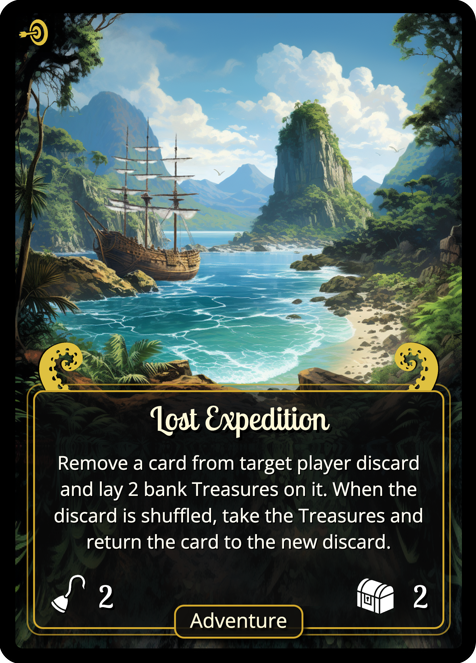
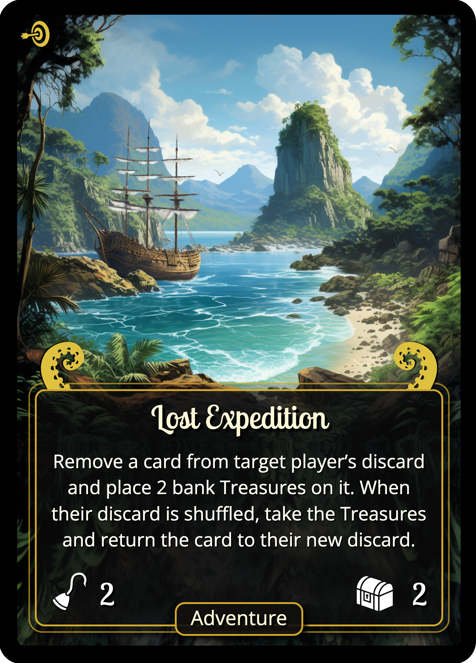
Update images

diff --git a/deckhand/cards.en.js b/deckhand/cards.en.js
@@ -200,7 +200,7 @@ var cards = [
 
 {
     'title': 'Typhoon',
-    'text': '+2 Cards, +1 Discard, +1 Treasure. Everyone move a card from their discard or, if unable, top deck to their left neighbor’s discard.',
+    'text': '+2 Cards, +1 Discard, +1 Treasure. All player move a card from their discard or, if unable, top deck to their left neighbor’s discard.',
     'flavor': 'A Swirling chaos! A navigational nightmare!',
     'reduced-font-size': '9.3px',
     'img': 'adventures/tornado.png',
@@ -384,7 +384,7 @@ var cards = [
 
 {
     'title': 'Lost Expedition',
-    'text': 'Remove a card from target player discard and lay 2 bank Treasures on it. When his discard is shuffled, take the Treasures and return the card to his new discard.',
+    'text': 'Remove a card from target player’s discard and place 2 bank Treasures on it. When their discard is shuffled, take the Treasures and return the card to their new discard.',
     'img': 'adventures/lost-expedition-2.png',
     //'reduced-font-size': '9.0px',
     'type': 'adventure',
@@ -655,7 +655,7 @@ var cards = [
 
 {
     'title': 'Skull island',
-    'text': 'Every player reveals the top card of their deck: you may swap one with another from the supply as long as the cost difference is 2 or less.',
+    'text': 'All players reveals the top card of their deck: you may swap one with another from the supply as long as the cost difference is 2 or less.',
     'img': 'structures/skull.png',
     //'reduced-font-size': true,
     'type': 'structure',

diff --git a/deckhand/cards.fr.js b/deckhand/cards.fr.js
@@ -85,7 +85,7 @@ var fr_translations = [
   },
   {
     "title": "Typhon",
-    "text": "+2 Cartes, +1 Défausse, +1 Trésor. Tout le monde déplace une carte de sa défausse ou, si impossible, du dessus de son deck vers la défausse du voisin de gauche.",
+    "text": "+2 Cartes, +1 Défausse, +1 Trésor. Tout les joueurs déplace une carte de sa défausse ou, si impossible, du dessus de son deck vers la défausse du voisin de gauche.",
     "flavor": "",
     // "flavor": "Un chaos tourbillonnant ! Un cauchemar!"
   },
